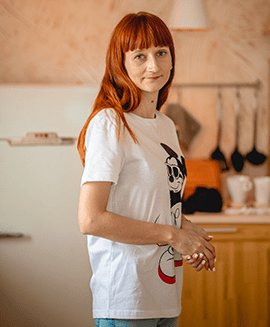
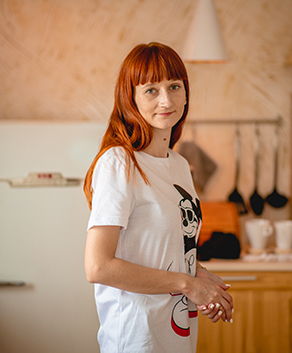
fix: horizontal scroll

diff --git a/src/components/AboutMe/AboutMe.css b/src/components/AboutMe/AboutMe.css
@@ -8,18 +8,22 @@
   font-style: normal;
   font-weight: 400;
   align-self: center;
+  box-sizing: border-box;
+  width: 100%;
 }
 
 .about-me__photo {
   grid-column: 1/2;
   grid-row: 2/3;
   margin-top: 60px;
-  width: 292px;
+  width: 276px;
   height: 352px;
+  object-fit: cover;
   display: block;
   box-sizing: border-box;
   border-radius: 10px;
   justify-self: center;
+  border: none;
 }
 
 .about-me__content {

diff --git a/src/components/AboutProject/AboutProject.css b/src/components/AboutProject/AboutProject.css
@@ -40,8 +40,9 @@
   display: grid;
   grid-template-columns: 1fr 1.84fr;
   width: 100%;
-  min-width: 284px;
+  max-width: 284px;
   text-align: center;
+  box-sizing: border-box;
 }
 
 .timing__item {

diff --git a/src/components/Portfolio/Portfolio.css b/src/components/Portfolio/Portfolio.css
@@ -2,6 +2,8 @@
   padding: 0 14px 70px;
   display: flex;
   flex-direction: column;
+  box-sizing: border-box;
+  width: 100%;
 }
 
 .portfolio__title {

diff --git a/src/components/Techs/Techs.css b/src/components/Techs/Techs.css
@@ -5,6 +5,8 @@
   display: flex;
   flex-direction: column;
   font-style: normal;
+  box-sizing: border-box;
+  width: 100%;
 }
 
 .techs__subtitle {
